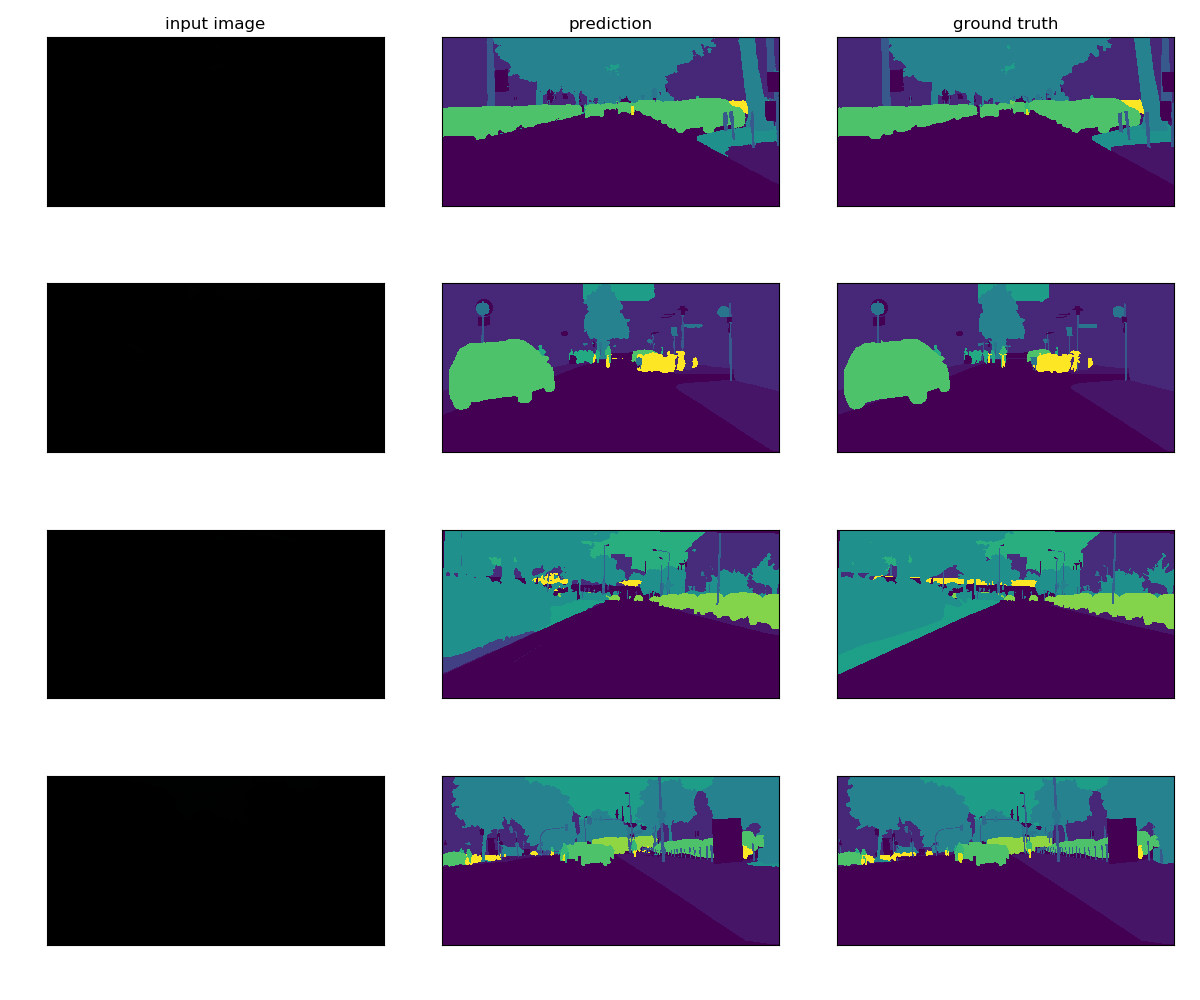
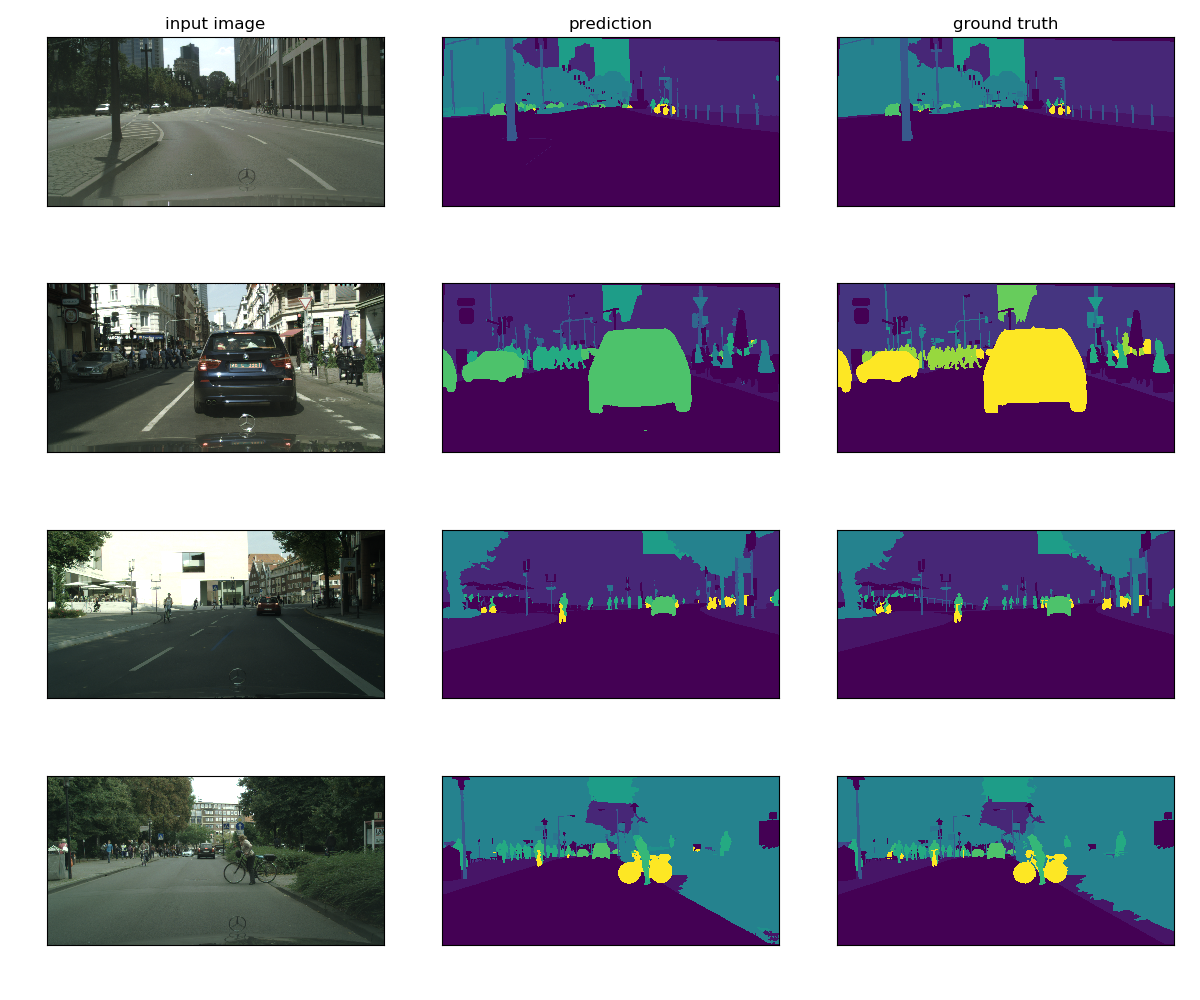
Update README about mobilenetv2

diff --git a/src/eval.py b/src/eval.py
@@ -65,7 +65,7 @@ axes[0, 1].set_title('prediction')
 axes[0, 2].set_title('ground truth')
 
 for ax, img, lbl, pred in zip(axes, images, labels, preds):
-    ax[0].imshow(minmax_normalize(img))
+    ax[0].imshow(minmax_normalize(img, norm_range=(0, 1), orig_range=(-1, 1)))
     ax[1].imshow(pred)
     ax[2].imshow(lbl)
     ax[0].set_xticks([])

diff --git a/README.md b/README.md
@@ -5,9 +5,9 @@ You can train various networks like DeepLabV3+, PSPNet, UNet, etc., just by writ
 ![DeepLabV3+](src/eval.png)
 
 ## Pretrained model
-You can run pretrained DeepLabv3+ converted from [official tensorflow model](https://github.com/tensorflow/models/blob/master/research/deeplab/g3doc/model_zoo.md).  
-Currently I checked that xception65_cityscapes_trainfine can be converted.
+You can run pretrained model converted from [official tensorflow model](https://github.com/tensorflow/models/blob/master/research/deeplab/g3doc/model_zoo.md).  
 
+### DeepLabV3+(Xception65+ASPP)
 ```
 $ mkdir tf_model
 $ cd tf_model
@@ -15,7 +15,7 @@ $ wget http://download.tensorflow.org/models/deeplabv3_cityscapes_train_2018_02_
 $ tar -xvf deeplabv3_cityscapes_train_2018_02_06.tar.gz
 $ cd ../src
 $ mkdir ../model
-$ python convert.py ../tf_model/deeplabv3_cityscapes_train/model.ckpt 19 ../model/cityscapes_deeplab_v3_plus/model.pth
+$ python -m converter.convert_xception65 ../tf_model/deeplabv3_cityscapes_train/model.ckpt 19 ../model/cityscapes_deeplab_v3_plus/model.pth
 ```
 
 Then you can test the performance of trained network.
@@ -23,6 +23,18 @@ Then you can test the performance of trained network.
 ```
 $ python eval.py
 ```
+
+### MobilenetV2
+```
+$ mkdir tf_model
+$ cd tf_model
+$ wget http://download.tensorflow.org/models/deeplabv3_mnv2_cityscapes_train_2018_02_05.tar.gz
+$ tar -xvf deeplabv3_mnv2_cityscapes_train_2018_02_05.tar.gz
+$ cd ../src
+$ mkdir ../model
+$ python -m converter.mobilenetv2 ../tf_model/deeplabv3_mnv2_cityscapes_train/model.ckpt 19 ../model/cityscapes_mobilnetv2/model.pth
+```
+
 
 
 ## How to train
@@ -35,23 +47,18 @@ Net:
   dec_type: 'unet_scse'
   num_filters: 8
   pretrained: True
-
 Data:
   dataset: 'pascal'
-  preprocess: 'imagenet'
-  target_size: (256, 256)
-
+  target_size: (512, 512)
 Train:
   max_epoch: 20
   batch_size: 2
+  fp16: True
   resume: False
-  start_epoch: 0
-
+  pretrained_path:
 Loss:
-  weight:
-  size_average: True
-  batch_average: True
-
+  loss_type: 'Lovasz'
+  ignore_index: 255
 Optimizer:
   mode: 'adam'
   base_lr: 0.001
